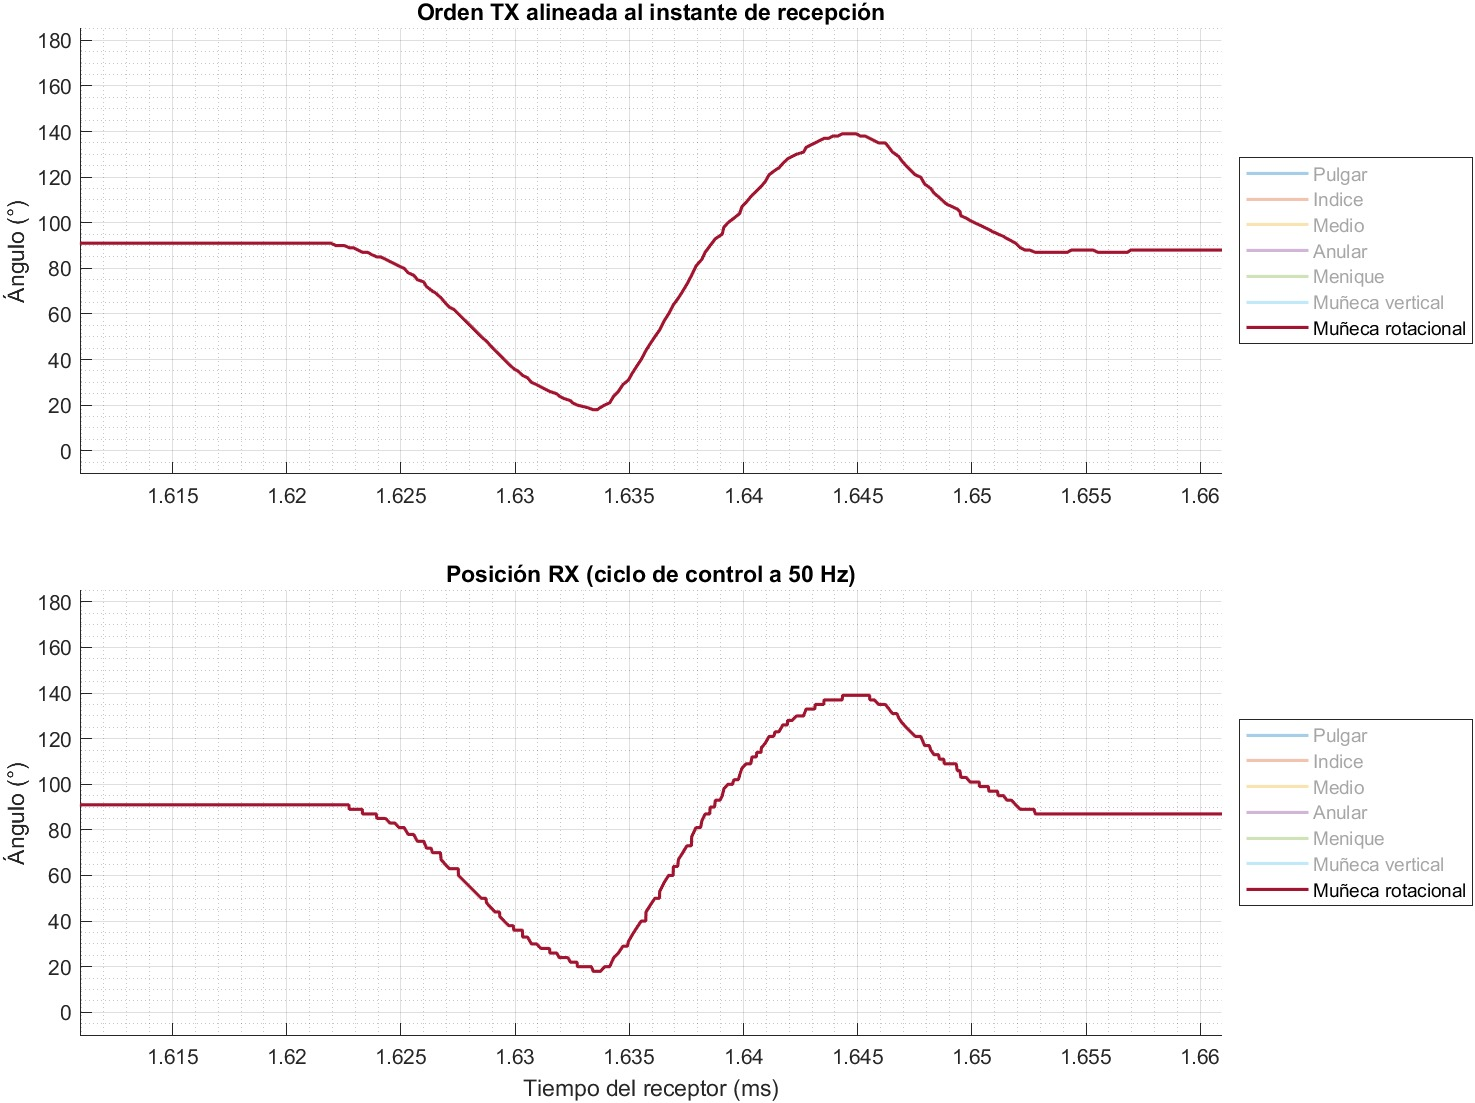
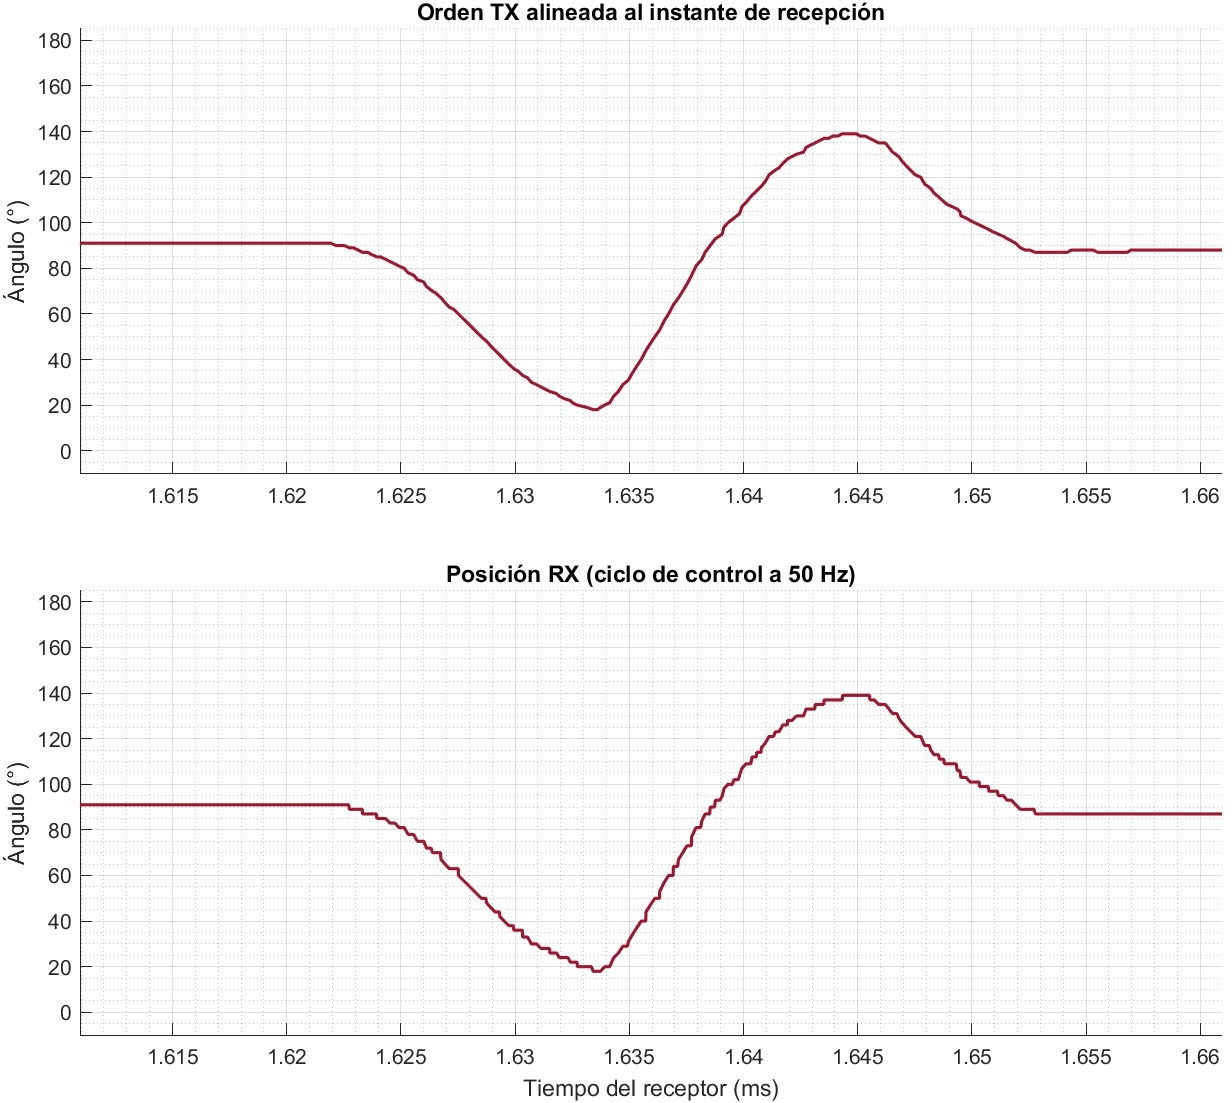
docs: figuras de señales más legibles (trazas engrosadas, leyendas sin entradas vacías, unidades en los ejes)

diff --git a/informe/capitulos/08_pruebas.tex b/informe/capitulos/08_pruebas.tex
@@ -14,7 +14,7 @@ Se analizó la utilidad de los filtros para cada medición realizada en el ESP32
     \includegraphics[width=0.45\textwidth]{Pitch_Ruido_Sin_Movimiento.png}}
   \subfigure[\textit{Pitch} con movimiento]{
     \includegraphics[width=0.45\textwidth]{Pitch_Ruido_Con_Movimiento.png}}
- \caption{Medición de \textit{pitch}.}
+ \caption{Medición de \textit{pitch}: lectura cruda y filtrada con Kalman (versión preliminar). Eje vertical: ángulo en grados; eje horizontal: número de muestra.}
  \label{f:Ruido_Pitch}
 \end{figure}
 
@@ -26,7 +26,7 @@ y para el \textit{roll} se observa:
     \includegraphics[width=0.45\textwidth]{Roll_Ruido_Sin_Movimiento.png}}
   \subfigure[\textit{Roll} con movimiento]{
     \includegraphics[width=0.45\textwidth]{Roll_Ruido_Con_Movimiento.png}}
- \caption{Medición de \textit{roll}.}
+ \caption{Medición de \textit{roll}: lectura cruda y filtrada con Kalman (versión preliminar). Eje vertical: ángulo en grados; eje horizontal: número de muestra.}
  \label{f:Ruido_Roll}
 \end{figure}
 
@@ -38,7 +38,7 @@ Luego se analizó el comportamiento de los potenciómetros, comparando los datos
     \includegraphics[width=0.45\textwidth]{Pote_Ruido.png}}
   \subfigure[Cambio brusco]{
     \includegraphics[width=0.45\textwidth]{Pote_Ruido_1.png}}
- \caption{Respuesta de un potenciómetro.}
+ \caption{Respuesta de un potenciómetro: lectura cruda y filtrada con EMA. Eje vertical: cuentas del ADC (0 a 4095); eje horizontal: número de muestra.}
  \label{f:Ruido_Potenciometros}
 \end{figure}
 
@@ -56,7 +56,7 @@ A continuación se observa la respuesta del sistema completo, transmisor y recep
     \includegraphics[width=0.47\textwidth]{Transmicion_3.png}}
   \subfigure[Bajar dedo]{
     \includegraphics[width=0.47\textwidth]{Transmicion_4.png}}
- \caption{Respuesta del sistema.}
+ \caption{Respuesta del sistema en la versión preliminar. Eje vertical: ángulo del servo en grados; eje horizontal: número de muestra.}
  \label{f:Respuesta_Sistema}
 \end{figure}
 

diff --git a/PENDIENTES.md b/PENDIENTES.md
@@ -63,17 +63,15 @@ Todo commiteado en `docs/presentacion`. **Por decidir:** llevarlo a `main` antes
 - **5 V:** el "0,76 V pico a pico" era el parámetro `ampl` del LeCroy (no confiable a 1 V/div; su máximo fue 4,32 V).
   El cap. 8 ahora usa el RMS: 5,14–5,25 V en 57 adquisiciones, desvío 16 mV.
 
-## 2. Comentario del profesor: figuras de señales poco legibles
+## 2. Comentario del profesor: figuras de señales poco legibles — hecho el 2026-10-26
 
-| Figuras | Por qué cuesta leerlas | Arreglo propuesto |
-|---|---|---|
-| Serial Plotter: `Pitch_*`, `Roll_*`, `Pote_*`, `Transmicion_*` (cap. 8) | Líneas finas de color pastel sobre blanco, letra chica, *Interpolate* activado, a 0,45 del ancho de página | Lo ideal es regraficarlas en MATLAB desde los datos. Si no están, una figura por fila y oscurecer las líneas con un script |
-| Osciloscopio: `Mediciones/P02_*`, `P03_*` | Traza amarilla sobre fondo blanco: casi no hay contraste | Recolorear el amarillo a azul oscuro con un script (sólo cambia el color) o exportar de nuevo desde el LeCroy |
-| MATLAB: `Mediciones/P16_*` | Seis entradas grises de la leyenda sin usar; el factor ×10⁵ del eje quedó fuera de la captura | Exportar de nuevo mostrando sólo la señal graficada, con el eje en segundos |
-
-- [ ] Falta preguntar al usuario: ¿hay datos crudos (CSV o texto del monitor serie) de las capturas del
-  Serial Plotter?
-- [ ] Guardar los originales antes de tocar cualquier imagen.
+- Sin datos crudos de las capturas: se engrosaron y oscurecieron las trazas con un script (sólo los píxeles de color de
+  la zona del gráfico; grilla, texto y leyendas intactos) en las 10 del Serial Plotter (cap. 8.1) y las 5 del
+  osciloscopio (P02/P03). En las P16 se recortó la leyenda con entradas sin usar. Los originales quedan en git (antes
+  de este commit) y en `docs/pruebas/evidencia/2026-10-15/`.
+- Las leyendas de las figuras del cap. 8.1 ahora dicen las unidades de los ejes.
+- Sin resolver: los números de los ejes del Serial Plotter siguen chicos a ese ancho, y el ×10⁵ de las P16 sigue
+  explicado sólo en el texto.
 
 ## 3. Comentario del profesor: resumir la evolución de versiones — hecho el 2026-10-26
 
